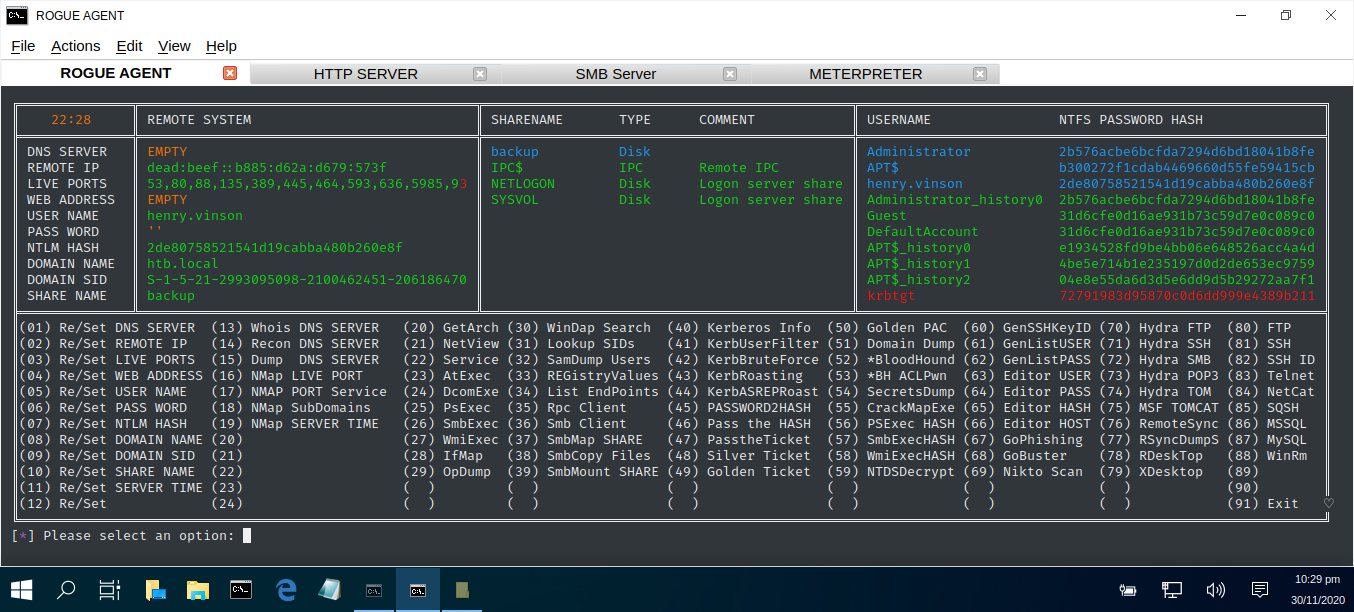
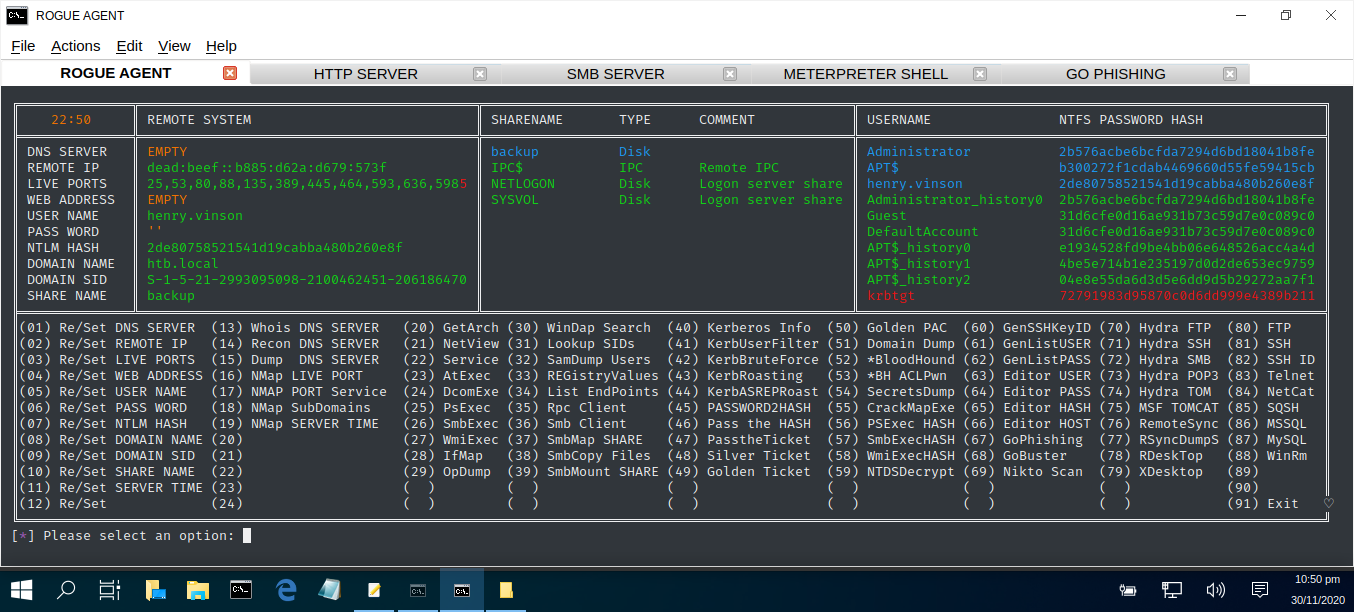
TREADSTONE

diff --git a/rogue-agent.py b/rogue-agent.py
@@ -775,7 +775,7 @@ banner3()
 time.sleep(2)
 
 command("xdotool key Ctrl+Shift+T; sleep 2")
-command("xdotool key Alt+Shift+S; xdotool type 'SMB Server'; xdotool key Return; sleep 2")
+command("xdotool key Alt+Shift+S; xdotool type 'SMB SERVER'; xdotool key Return; sleep 2")
 command("xdotool type 'cat banner.tmp'; xdotool key Return")
 command("xdotool type 'impacket-smbserver C:\\tmp " + httpDir + "/ -smb2support'; xdotool key Return; sleep 2")
 command("xdotool key Ctrl+Shift+Tab; sleep 2")
@@ -800,7 +800,7 @@ with open("meterpreter.rc", "w") as write:
    write.write("run\n")
 
 command("xdotool key Ctrl+Shift+T; sleep 2")
-command("xdotool key Alt+Shift+S; xdotool type 'METERPRETER'; xdotool key Return; sleep 2")
+command("xdotool key Alt+Shift+S; xdotool type 'METERPRETER SHELL'; xdotool key Return; sleep 2")
 command("xdotool type 'cat banner.tmp'; xdotool key Return")
 command("xdotool type 'msfconsole -r meterpreter.rc'; xdotool key Return")
 command("xdotool key Ctrl+Shift+Tab; sleep 2")
@@ -2744,9 +2744,9 @@ while True:
          
       if checkParams != 1:
          command("xdotool key Ctrl+Shift+T")
-         command("xdotool key Alt+Shift+S; xdotool type 'Go Phishing'; xdotool key Return; sleep 2")
+         command("xdotool key Alt+Shift+S; xdotool type 'GO PHISHING'; xdotool key Return; sleep 2")
          
-         with open("logo2.tmp", "a") as logo:
+         with open("logo2.tmp", "a") as banner:
             banner.write("  ____  ___    ____  _   _ ___ ____  _   _ ___ _   _  ____ \n")
             banner.write(" / ___|/ _ \  |  _ \| | | |_ _/ ___|| | | |_ _| \ | |/ ___|\n")
             banner.write("| |  _| | | | | |_) | |_| || |\___ \| |_| || ||  \| | |  _ \n")
@@ -2754,10 +2754,13 @@ while True:
             banner.write(" \____|\___/  |_|   |_| |_|___|____/|_| |_|___|_| \_|\____|\n")
             banner.write("                                                           \n")
             banner.write("   BY TERENCE BROADBENT BSc CYBERSECURITY (FIRST CLASS)    \n")
-         logo.close()
+         banner.close()
          
          command("xdotool type 'cat logo2.tmp'; xdotool key Return")
          command("xdotool type 'nc -nvlp 80'; xdotool key Return")
+         command("xdotool key Ctrl+Shift+Tab")
+         command("xdotool key Ctrl+Shift+Tab") # extra screens open
+         command("xdotool key Ctrl+Shift+Tab")
          command("xdotool key Ctrl+Shift+Tab")
                  
          command('echo "Hello.\n" > body.tmp')
@@ -2780,7 +2783,7 @@ while True:
             print("")
             
          print("[" + colored("*", colour8) + "] Checking for valid usernames...")
-         command("smtp-user-enum -U usernames.txt -d " + DOM.rstrip(" ") + " -m RCPT " + DOM.rstrip(" ") + " 25 | grep SUCC > valid1.tmp")                 
+         command("smtp-user-enum -U " + dataDir + "/usernames.txt -d " + DOM.rstrip(" ") + " -m RCPT " + DOM.rstrip(" ") + " 25 | grep SUCC > valid1.tmp")                 
          command("tr -cd '\11\12\15\40-\176' < valid1.tmp > valid.tmp")
          
          match = 0         

diff --git a/README.md b/README.md
@@ -28,7 +28,7 @@ USAGE : python3 rogue-agent.py
 | LANGUAGE  | FILENAME       | MD5 Hash                         | Version      |
 |------     |-------         | -------                          | ----         |
 | python3   | install.py     | ab3f59d48bada51b057fccaab672430c | TREADSTONE   |	                
-| python3   | rogue-agent.py | 3643f074c626012171766b6b147608ee | TREADSTONE   |
+| python3   | rogue-agent.py | db93b27ad04656f79fc5fa9eebbac332 | TREADSTONE   |
        
 ## CONSOLE DISPLAY AND VIDEO LINK
 
